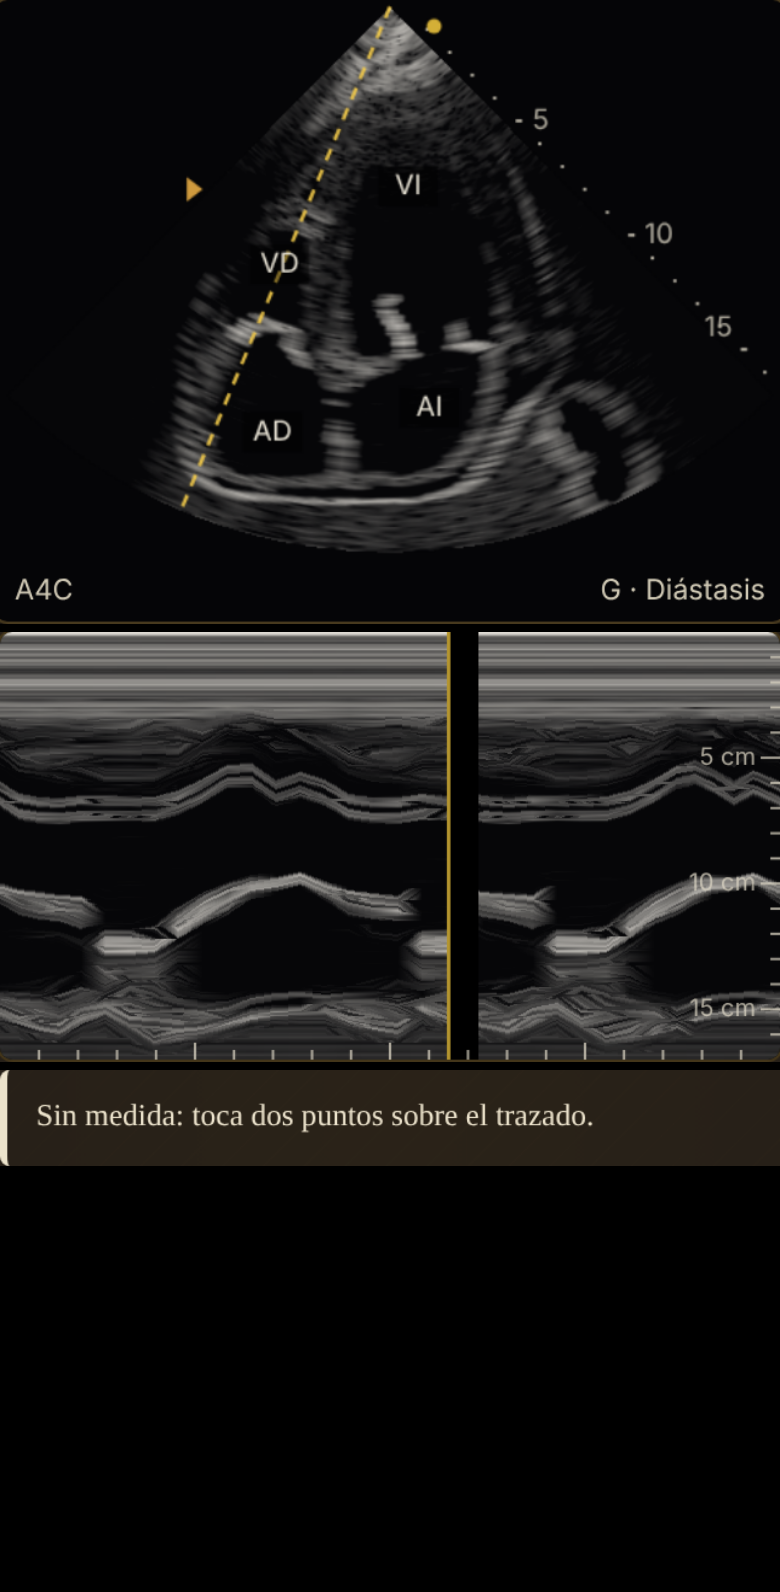
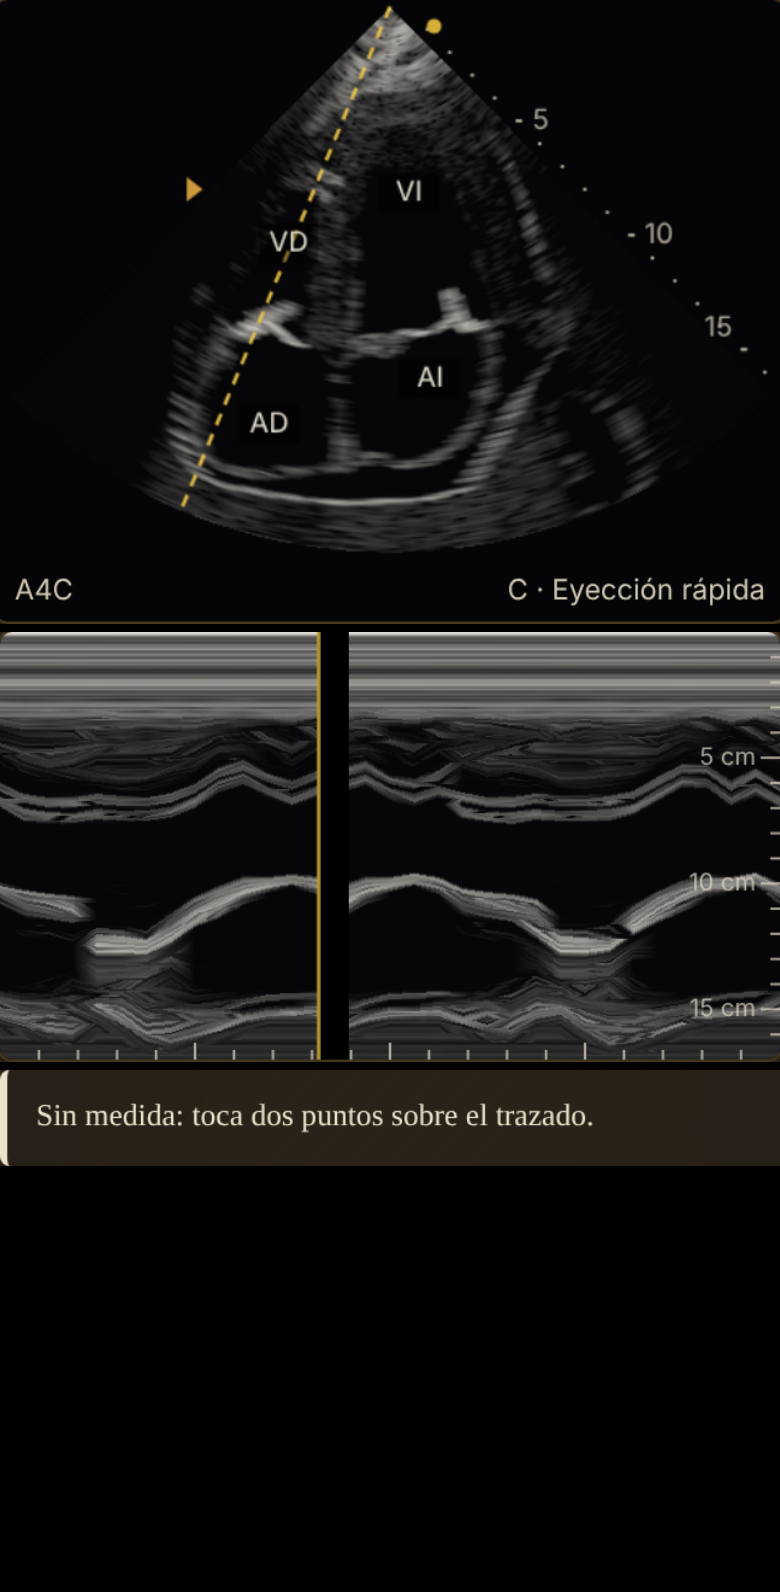
v2g: McConnell con ápex más marcado, AI más tenue, aorta descendente fina, sombra continua del SC4C

diff --git a/js/data/eco-tejidos.js b/js/data/eco-tejidos.js
@@ -62,5 +62,8 @@ export const DB_IMAGEN = {
 // Pared de las aurículas del dibujo nuevo (con «paredes reales»): ~2,5 mm de grosor y moteado como el miocardio, algo más tenue
 // que el VI (db: dB extra sobre la pared de aurícula; moteadoDb: amplitud del grano). En la eco la pared auricular fina se ve gris
 // y granulosa, no como un alambre (idea de Lang 2015 / Mitchell 2019, que no dan el grosor): grosor y dB, ilustrativos.
-export const PARED_AURICULAR_NUEVO = { ancho: 2.5, db: -4, moteadoDb: 4, origen: 'ilustrativo' };
+export const PARED_AURICULAR_NUEVO = { ancho: 2.5, db: -7, moteadoDb: 4, origen: 'ilustrativo' };
 export const PARED_VD_NUEVO = { db: 8, origen: 'ilustrativo' };
+// Aorta descendente del dibujo nuevo (detrás de la AI): pared más fina y 8 dB más tenue que los grandes vasos, para que no compita con la AI
+// (calibre real ~2-2,5 cm; el radio del dibujo, en torax.mjs TORAX_NUEVO.rAo; ni Lang 2015 ni Mitchell 2019 dan su calibre: ilustrativo).
+export const AORTA_DESC_NUEVO = { db: -8, ancho: 1.3, origen: 'ilustrativo' };

diff --git a/autonomo/bloques/mv-eco/paso6/v2g-informe.md b/autonomo/bloques/mv-eco/paso6/v2g-informe.md
@@ -1,0 +1,12 @@
+# v2g · carril dibujo, vuelta 2 (arreglos 6, 7, 8)
+**6 McConnell** (`corazon-geo.mjs`, `APEX_CIERRE` 0,5 → 0,85, ilustrativo; McConnell 1996 PMID 8752195 da 5,7 mm de excursión normal, no la luz apical). Medida `m3-mcconnell.mjs`, TEP g=1, mm hacia dentro:
+| | pared media | ápex |
+|---|---|---|
+| antes | 0,28 | 5,68 |
+| después | 0,28 | 9,59 |
+g=0,5: media −1,53, ápex 8,0 → 11,3. Diferencia ápex−media 9,3 mm (≈2 px/mm a 390, medido en la vuelta anterior: 5,4 mm ≈ 11 px) → ≈19 px, un pelo bajo el objetivo de 20. NO hice el foco VD del TEP (queda como paso aparte; el VI se conserva). El volumen del motor se conserva (cuadrática exacta).
+**7 AI y aorta descendente**: `PARED_AURICULAR_NUEVO.db` −4 → −7 (AI ≈ 3 dB más tenue; ilustrativo). Nueva `AORTA_DESC_NUEVO` (eco-tejidos.js: −8 dB, 1,3 mm de pared, ilustrativo; Lang 2015 y Mitchell 2019 no dan su calibre) aplicada en `ecografia.mjs` solo al «Aorta descendente» del dibujo nuevo; `torax.mjs` `TORAX_NUEVO.rAo` 11 → 10 (≈20 mm; calibre ~2-2,5 cm sin cita de página). En las capturas A4C del TEP el anillo doble tras la AI desaparece / queda tenue.
+**8 SC4C**: `sombraIrregular` (ecografia.mjs, solo dibujo nuevo) pasa de hash por haz y bloque de 8 muestras a ruido de valor suave (celdas 7 haces × 28 muestras, −36…−24 dB, ilustrativo): caída continua en vez de rayas.
+**Pruebas**: ecografia, instantanea-dibujo, geometria, regional, torax: 75 pasan, 0 fallan. `jueces --geometria --dibujo nuevo`: 0 fallos de 147.
+**Capturas** (después): `autonomo/bloques/mv-eco/capturas-realismo/{dilatada-a4c,derrame-sc4c,tep-a4c,hp-a4c,normal-a4c}.png` y `mov/mov-tep-a4c.png`; antes = las del commit anterior (git).
+**No comprobado / riesgo**: (1) la AI de la dilatada se ve casi igual de brillante en la captura: su borde en caja viene en parte de otras estructuras (mitral, tabique, base); no medí el brillo de la AI en píxeles ni cambié su forma (esquinas sin tratar). (2) McConnell ≈19 px, no ≥20; sin foco VD y sin leer los 4 fotogramas píxel a píxel. (3) SC4C: la mejora de las rayas la vi en una captura, a ojo. (4) mov-doppler: el resto de capturas se regeneraron con la tanda, no las miré todas. Versión no tocada.
